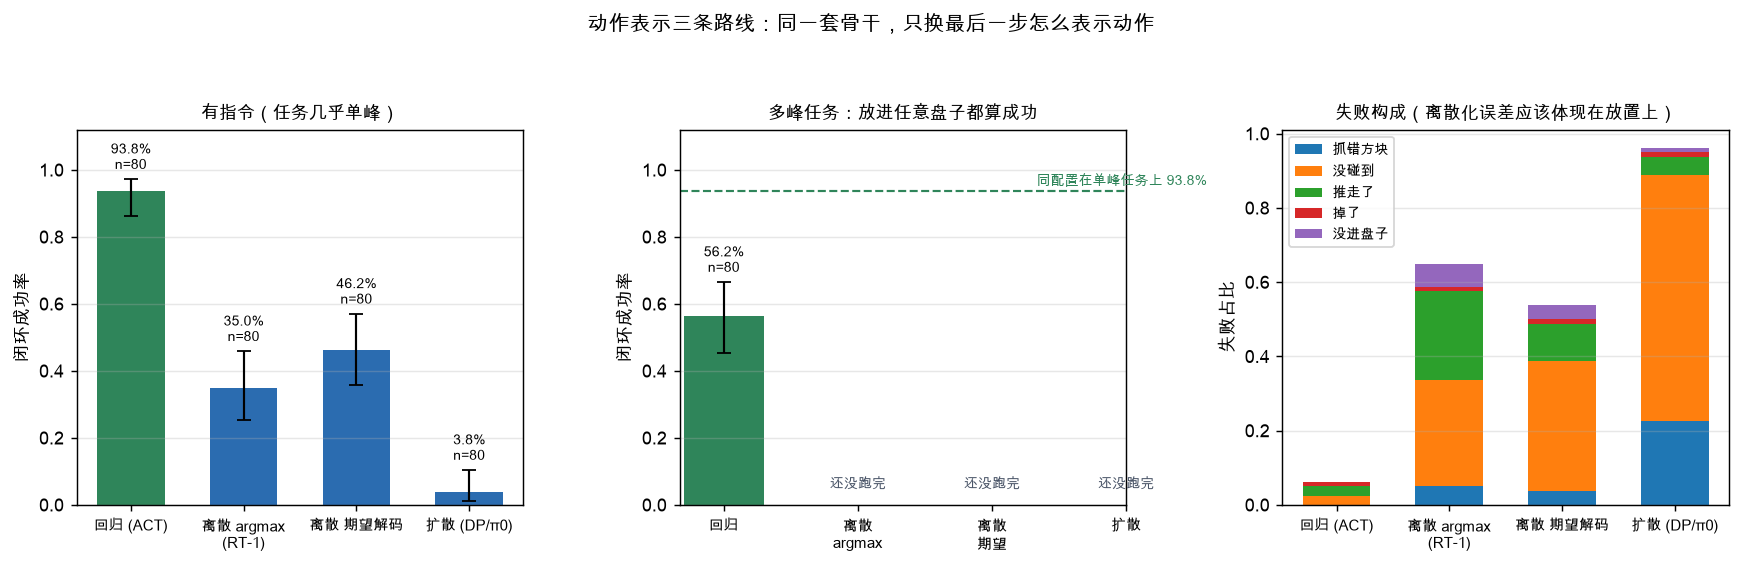
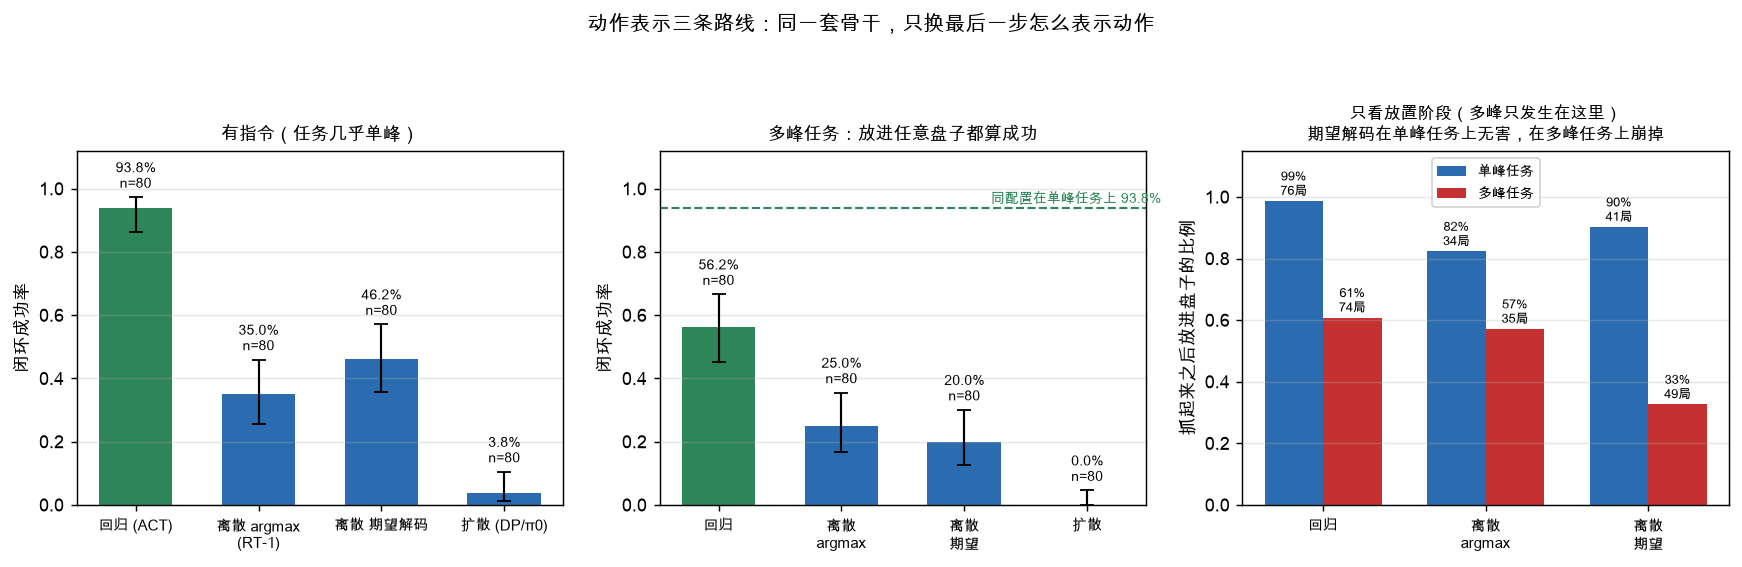
Multimodal task complete: four pre-registered predictions scored, phase decomposition figure

diff --git a/scripts/explain_heads.py b/scripts/explain_heads.py
@@ -10,6 +10,7 @@
 from __future__ import annotations
 
 import json, os
+from collections import Counter
 import numpy as np
 import matplotlib.pyplot as plt
 
@@ -74,19 +75,37 @@ def main():
     ax.text(len(MM_ARMS) - 0.4, 0.955, "同配置在单峰任务上 93.8%", fontsize=7.5,
             ha="right", color=C["act"])
 
-    # 失败构成
+    # 阶段分解：多峰只发生在放置阶段，所以要把两个阶段分开看
     ax = axes[2]
-    names = [a[0] for a in ARMS]
-    bot = np.zeros(len(names))
-    for key, lab in BUCKETS[1:]:
+    PAIRS = [("回归", "runs/bc_v5_hist", "runs/any_regress"),
+             ("离散\nargmax", "runs/head_discrete_h", "runs/any_discrete"),
+             ("离散\n期望", "runs/head_discrete_h|eval_expect.json",
+              "runs/any_discrete|eval_expect.json")]
+
+    def cond_place(run):
+        res = load(run)
+        if not res:
+            return None
+        c = Counter(r["outcome"] for r in res)
+        lifted = c["success"] + c["off_plate"] + c["dropped"]
+        return (c["success"] / lifted if lifted else np.nan, lifted, len(res))
+
+    xs = np.arange(len(PAIRS))
+    w = 0.36
+    for off, key, lab, col in ((-w / 2, 1, "单峰任务", C["front"]), (w / 2, 2, "多峰任务", C["warn"])):
         vals = []
-        for r in res:
-            vals.append(sum(1 for x in r if x["outcome"] == key) / len(r) if r else 0.0)
-        ax.bar(np.arange(len(names)), vals, bottom=bot, label=lab, width=0.6)
-        bot += np.array(vals)
-    ax.set_xticks(np.arange(len(names))); ax.set_xticklabels(names, fontsize=8.5)
-    ax.set_ylabel("失败占比"); ax.legend(fontsize=7.5); ax.grid(alpha=0.3, axis="y")
-    ax.set_title("失败构成（离散化误差应该体现在放置上）", fontsize=10)
+        for row in PAIRS:
+            r = cond_place(row[key])
+            vals.append(r[0] if r else np.nan)
+        ax.bar(xs + off, vals, w, label=lab, color=col)
+        for x, v, row in zip(xs, vals, PAIRS):
+            r = cond_place(row[key])
+            if r:
+                ax.text(x + off, v + 0.02, f"{v:.0%}\n{r[1]}局", ha="center", fontsize=7)
+    ax.set_xticks(xs); ax.set_xticklabels([r[0] for r in PAIRS], fontsize=8.5)
+    ax.set_ylim(0, 1.15); ax.set_ylabel("抓起来之后放进盘子的比例")
+    ax.legend(fontsize=8); ax.grid(alpha=0.3, axis="y")
+    ax.set_title("只看放置阶段（多峰只发生在这里）\n期望解码在单峰任务上无害，在多峰任务上崩掉", fontsize=9.5)
 
     fig.suptitle("动作表示三条路线：同一套骨干，只换最后一步怎么表示动作", fontsize=11.5)
     fig.tight_layout(rect=[0, 0, 1, 0.93])

diff --git a/notes/18-造一个真正多峰的任务.md b/notes/18-造一个真正多峰的任务.md
@@ -273,6 +273,29 @@ python -m expert.collect --name place_any --episodes 900 --any-plate
 （caveat：两组的"抓起来过"子集不同，Fisher 检验在这里是近似的；
 但两个方向相反的效应量都不小，且和事先写下的机制预测一致。）
 
-## 还没跑完
+## 预测 4（扩散还是最差）：**对了，但没什么信息量**
 
-扩散头在多峰任务上的结果（预测 4）还在队列里。
+`any_diffusion`：**0.0%**（0/80）。失败构成 `no_grasp=51`、`wrong_cube=18`——
+**它的失败几乎全在抓取阶段**，而抓取阶段在两个任务里都是单峰的。
+也就是说多峰与否对它根本不构成变量：它在到达分岔点之前就已经废了。
+
+结合 `notes/17` 的诊断（采样后的开环误差就是回归的 1.6 倍），
+这一版扩散头的问题是**实现/预算**，不是表示能力。
+"扩散头适合多峰"这个命题在本项目里**没有被检验到**——
+要检验它，得先有一个在单峰任务上就能work的扩散头。
+（`head_diffusion_long`，同结构训 32000 步，在队列里。）
+
+## 四条预测的总账
+
+| | 预测 | 结果 |
+|---|---|---|
+| 1 | 回归掉到 50–70%，失败集中在放置类 | ✅ 56.2%，放置类占 29/35 |
+| 1b | 机制是"走中间" | ❌ 只有 15% 走中间；真实机制是**精度丢失**（落点 6 mm → 41 mm） |
+| 2 | 离散 argmax 会缩小差距甚至反超 | ❌ 25.0%，因为它卡在抓取阶段；但**放置阶段**方向确实对（−25.2 vs 回归 −37.9） |
+| 3 | 期望解码会退回到"走中间" | ✅ 放置成功率 57.1% → 32.7%，Fisher p=0.043 |
+| 4 | 扩散还是最差 | ✅ 0.0%，但失败在抓取阶段，与多峰无关 |
+
+**两条对、两条错、一条方向对量级错。**
+最有价值的是错的那两条：如果不写下来，
+事后很容易把"离散 25%"解释成"果然多峰表示没用"，而不去做阶段分解——
+而阶段分解才是这一组真正的结论。

diff --git a/docs/SUMMARY.md b/docs/SUMMARY.md
@@ -1,4 +1,4 @@
-# StarVLA 实验总结（2026-08-24 23:53）
+# StarVLA 实验总结（2026-08-25 03:15）
 
 ## 基线
 
@@ -35,6 +35,17 @@
 | 扩散 (DP/π0) | **3.8%** | 1%–10% | 18 | 53 | 4 | 1 | 1 |
 
 （n=80 局。预注册的预测是「三者差别不大，都在 60–80%」——被推翻了。机制见 `notes/17`。）
+
+## 动作表示三条路线（多峰任务 any_plate）
+
+| 动作头 | 成功率 | 95% 区间 | 抓错 | 没碰到 | 推走了 | 掉了 | 没进盘 |
+|---|---|---|---|---|---|---|---|
+| 回归 | **56.2%** | 45%–67% | 0 | 3 | 3 | 4 | 25 |
+| 离散 argmax | **25.0%** | 17%–35% | 2 | 27 | 16 | 4 | 11 |
+| 离散 期望解码 | **20.0%** | 13%–30% | 1 | 17 | 13 | 7 | 26 |
+| 扩散 | **0.0%** | 0%–5% | 18 | 51 | 8 | 1 | 2 |
+
+（n=80 局。指令不指定盘子，放进任意盘子都算成功；分岔点上的条件变异是单峰任务的 7 倍。预测写在 `notes/18`。）
 
 ## 大样本配对比较（McNemar 精确检验）
 
